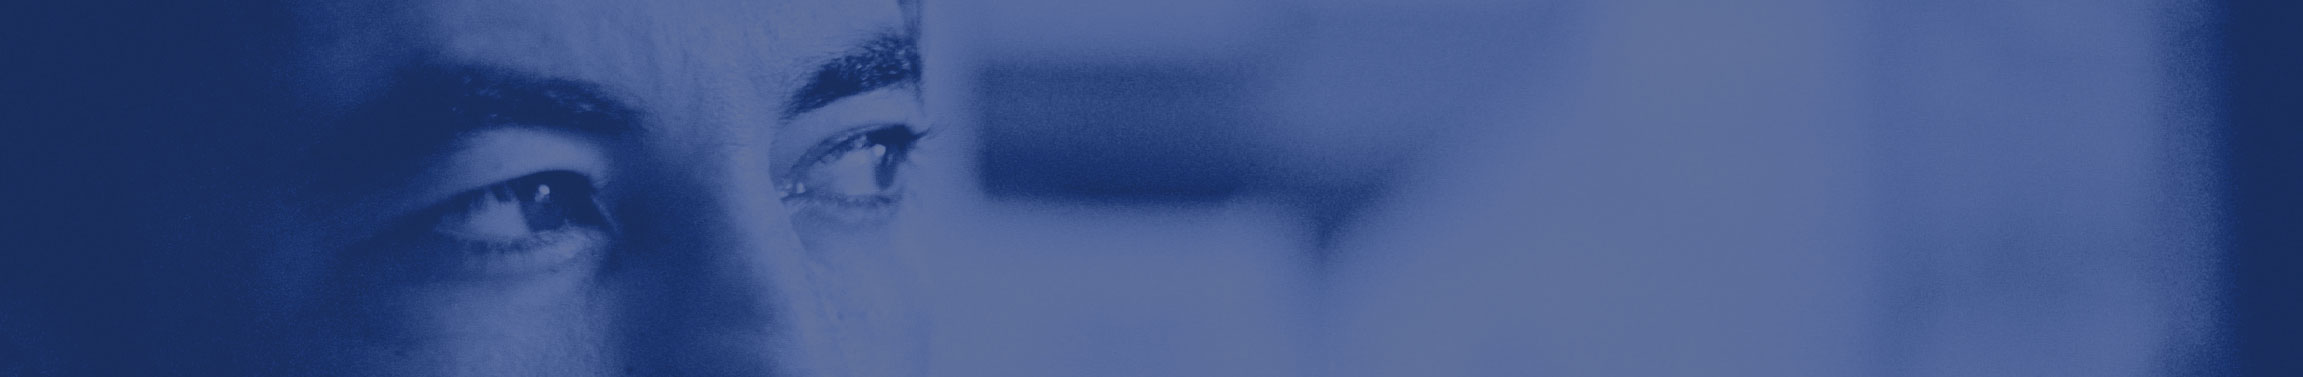
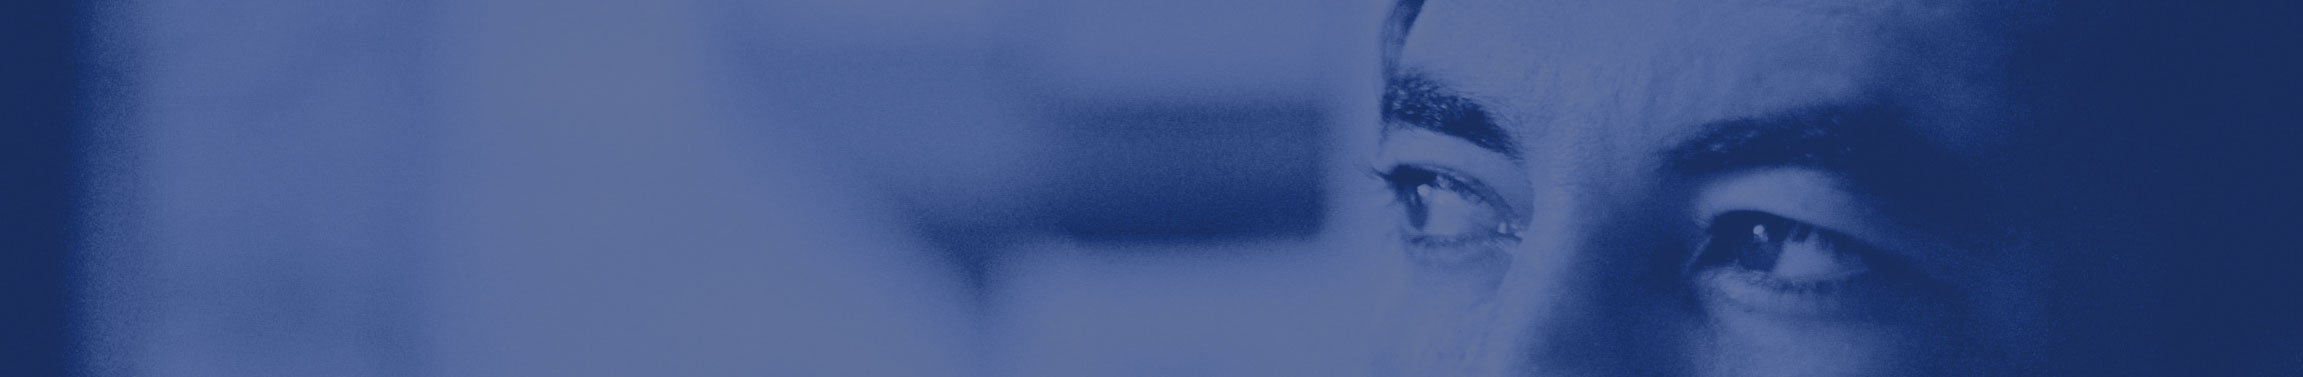
[Update] Header background fade

diff --git a/03_Studierende/David_Simon/07_Tatort_New/html/js/main.js b/03_Studierende/David_Simon/07_Tatort_New/html/js/main.js
@@ -11,8 +11,18 @@ $(document).ready(function () {
     }
 
     // Random Header Background
-    var availableBackgrounds = 2,
-        randBackgroundInt = Math.round(1+Math.random()*(availableBackgrounds-1));
-    $('.layout__header-container').addClass('background-' + randBackgroundInt);
-
+    var shuffleArray = function (v) {
+            /* jshint ignore:start */
+            for(var j, x, i = v.length; i; j = parseInt(Math.random() * i), x = v[--i], v[i] = v[j], v[j] = x);
+            /* jshint ignore:end */
+            return v;
+        }
+      , availableBackgrounds = shuffleArray(['schimanski', 'kurtulus', 'bienzle'])
+      , currentBackground = 0;
+    setInterval(function () {
+        var newBackground = (currentBackground < availableBackgrounds.length) ? currentBackground+1 : 0;
+        console.log(newBackground);
+        $('.layout__header-container').removeClass('background-' + availableBackgrounds[currentBackground]).addClass('background-' + availableBackgrounds[newBackground]);
+        currentBackground = newBackground;
+    },5000);
 });

diff --git a/03_Studierende/David_Simon/07_Tatort_New/html/css/main.css b/03_Studierende/David_Simon/07_Tatort_New/html/css/main.css
@@ -287,13 +287,21 @@ a:hover {
     .layout__header {
       width: 959px; } }
   .layout__header-container {
+    -webkit-transition: background 2s ease-in-out;
+    -moz-transition: background 2s ease-in-out;
+    transition: background 2s ease-in-out;
     background: #223b75 url("../media/header_schimanski_ultra.jpg") no-repeat center center;
     margin-bottom: 15px; }
     @media screen and (max-width: 1440px) {
       .layout__header-container {
         padding: 0 10px; } }
-  .layout__header-container.background-2 {
+  .layout__header-container.background-kurtulus {
     background-image: url("../media/header_kurtulus_ultra.jpg"); }
+    @media screen and (max-width: 1139px) {
+      .layout__header-container.background-kurtulus {
+        background-position: 70% center; } }
+  .layout__header-container.background-bienzle {
+    background-image: url("../media/header_bienzle_ultra.jpg"); }
 .layout__main {
   float: left;
   display: block;

diff --git a/03_Studierende/David_Simon/07_Tatort_New/html/scss/main.scss b/03_Studierende/David_Simon/07_Tatort_New/html/scss/main.scss
@@ -62,11 +62,18 @@ $layout: '.layout';
             @include media($full) {
                 padding: 0 10px;
             }
+            @include transition (background 2.0s ease-in-out);
             background: $blue url('../media/header_schimanski_ultra.jpg') no-repeat center center; //$grey-lighter;
             margin-bottom: 15px;
         }
-        &-container.background-2 {
+        &-container.background-kurtulus {
             background-image: url('../media/header_kurtulus_ultra.jpg');
+            @include media($desktop) {
+                background-position: 70% center;
+            }
+        }
+        &-container.background-bienzle {
+            background-image: url('../media/header_bienzle_ultra.jpg');
         }
     }
     &__main {
